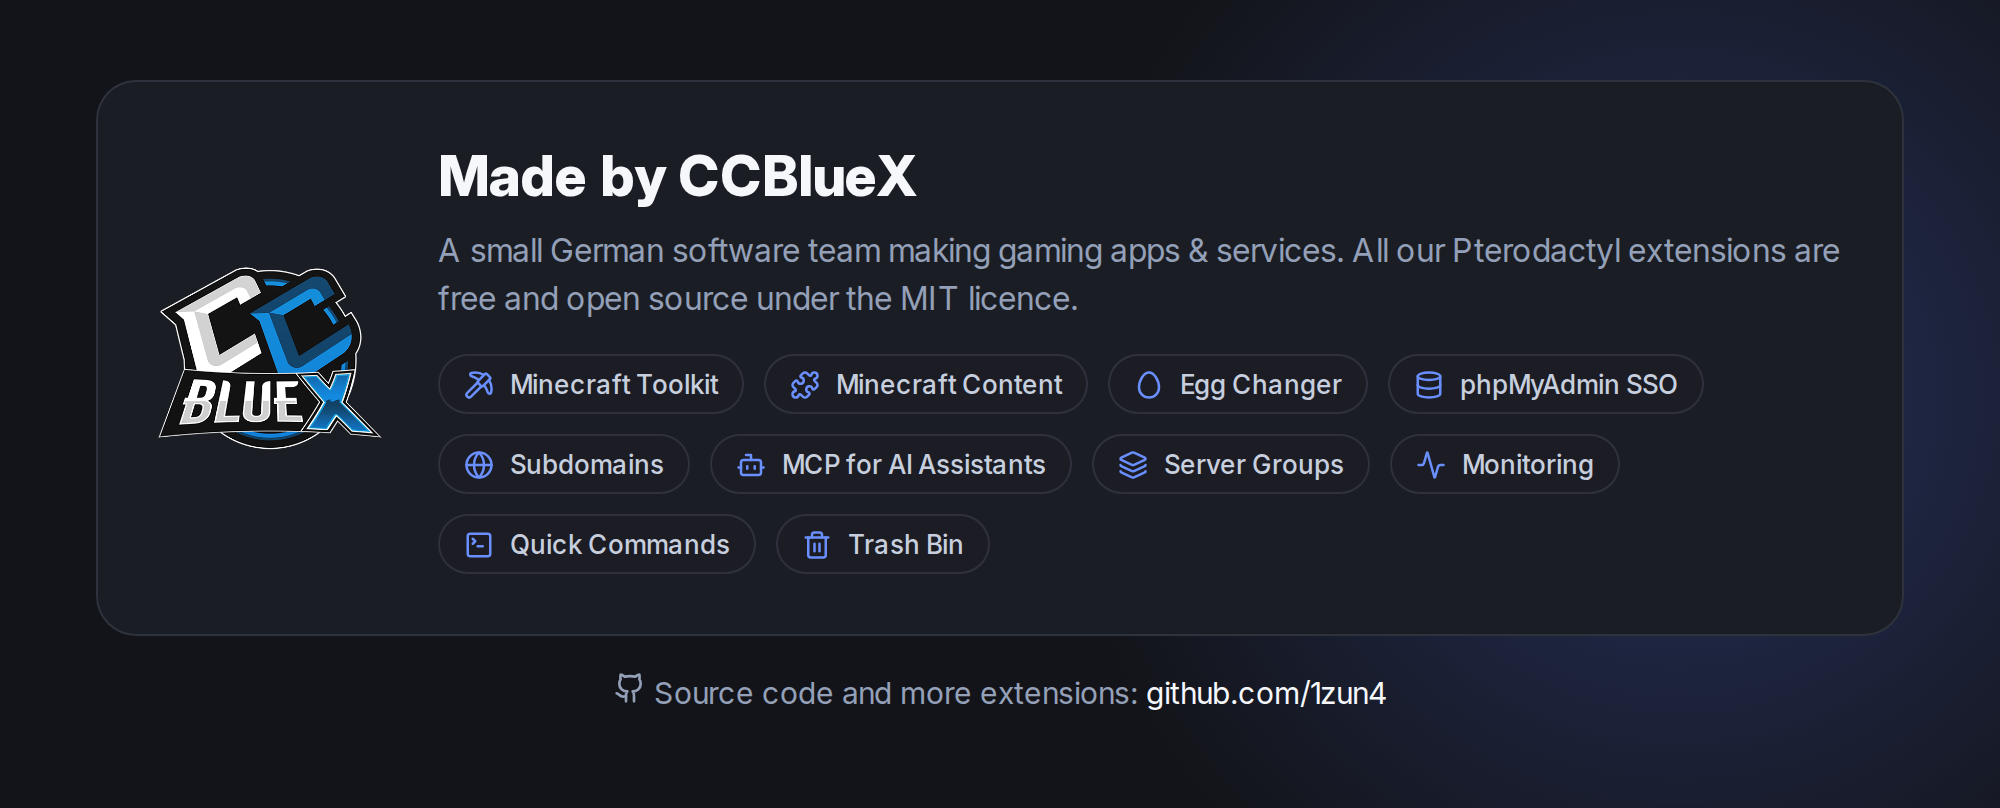
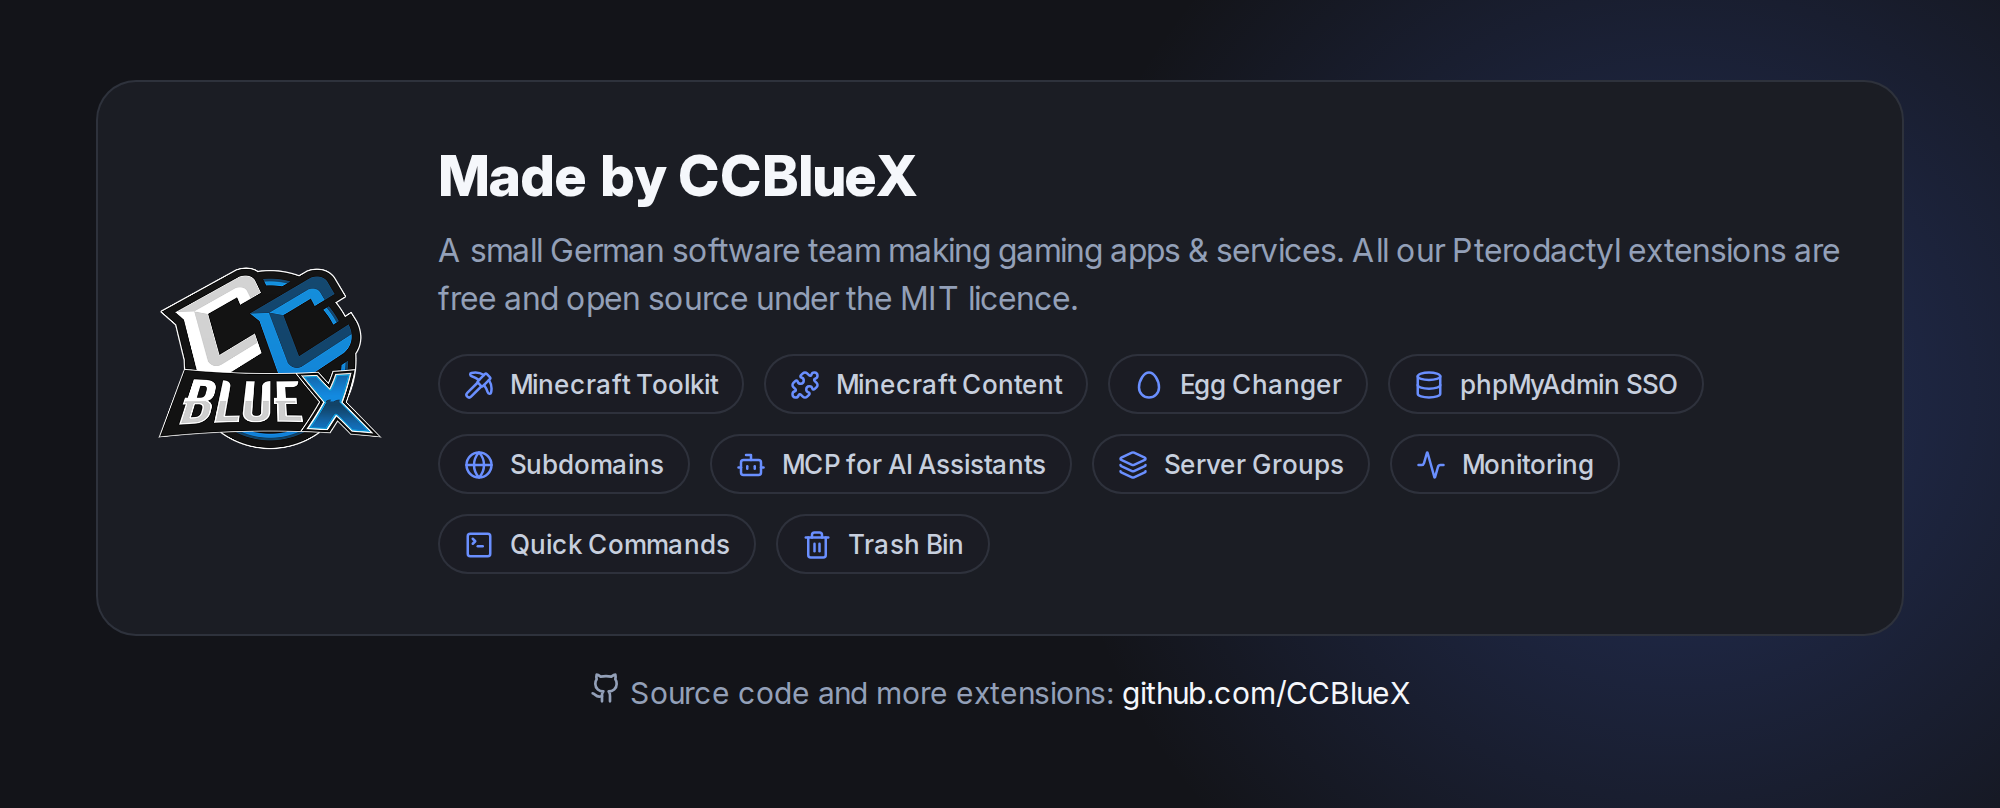
docs: move to ccbluex and hide node hostnames

Changed region(s): [[0.279, 0.8354, 0.713, 0.8973]]

diff --git a/README.md b/README.md
@@ -1,9 +1,9 @@
 # Server Creator for Pterodactyl
 
-[![Release](https://img.shields.io/github/v/release/1zun4/Pterodactyl-Extension-Server-Creator?style=flat-square)](https://github.com/1zun4/Pterodactyl-Extension-Server-Creator/releases/latest)
-[![Downloads](https://img.shields.io/github/downloads/1zun4/Pterodactyl-Extension-Server-Creator/total?style=flat-square)](https://github.com/1zun4/Pterodactyl-Extension-Server-Creator/releases)
+[![Release](https://img.shields.io/github/v/release/CCBlueX/Pterodactyl-Extension-Server-Creator?style=flat-square)](https://github.com/CCBlueX/Pterodactyl-Extension-Server-Creator/releases/latest)
+[![Downloads](https://img.shields.io/github/downloads/CCBlueX/Pterodactyl-Extension-Server-Creator/total?style=flat-square)](https://github.com/CCBlueX/Pterodactyl-Extension-Server-Creator/releases)
 [![Pterodactyl](https://img.shields.io/badge/Pterodactyl-2.0-0e4688?style=flat-square)](https://pterodactyl.io)
-[![License](https://img.shields.io/github/license/1zun4/Pterodactyl-Extension-Server-Creator?style=flat-square)](LICENSE)
+[![License](https://img.shields.io/github/license/CCBlueX/Pterodactyl-Extension-Server-Creator?style=flat-square)](LICENSE)
 
 Let users create their own servers within a quota, and duplicate servers in one click.
 
@@ -11,7 +11,7 @@ Let users create their own servers within a quota, and duplicate servers in one 
 
 ## Install
 
-1. Download `server-creator-<version>.pteroext` from the [latest release](https://github.com/1zun4/Pterodactyl-Extension-Server-Creator/releases/latest).
+1. Download `server-creator-<version>.pteroext` from the [latest release](https://github.com/CCBlueX/Pterodactyl-Extension-Server-Creator/releases/latest).
 2. Install and enable it under **Admin → Extensions**.
 3. Under **Admin → Server Creator**, add a game and give users a quota.
 
